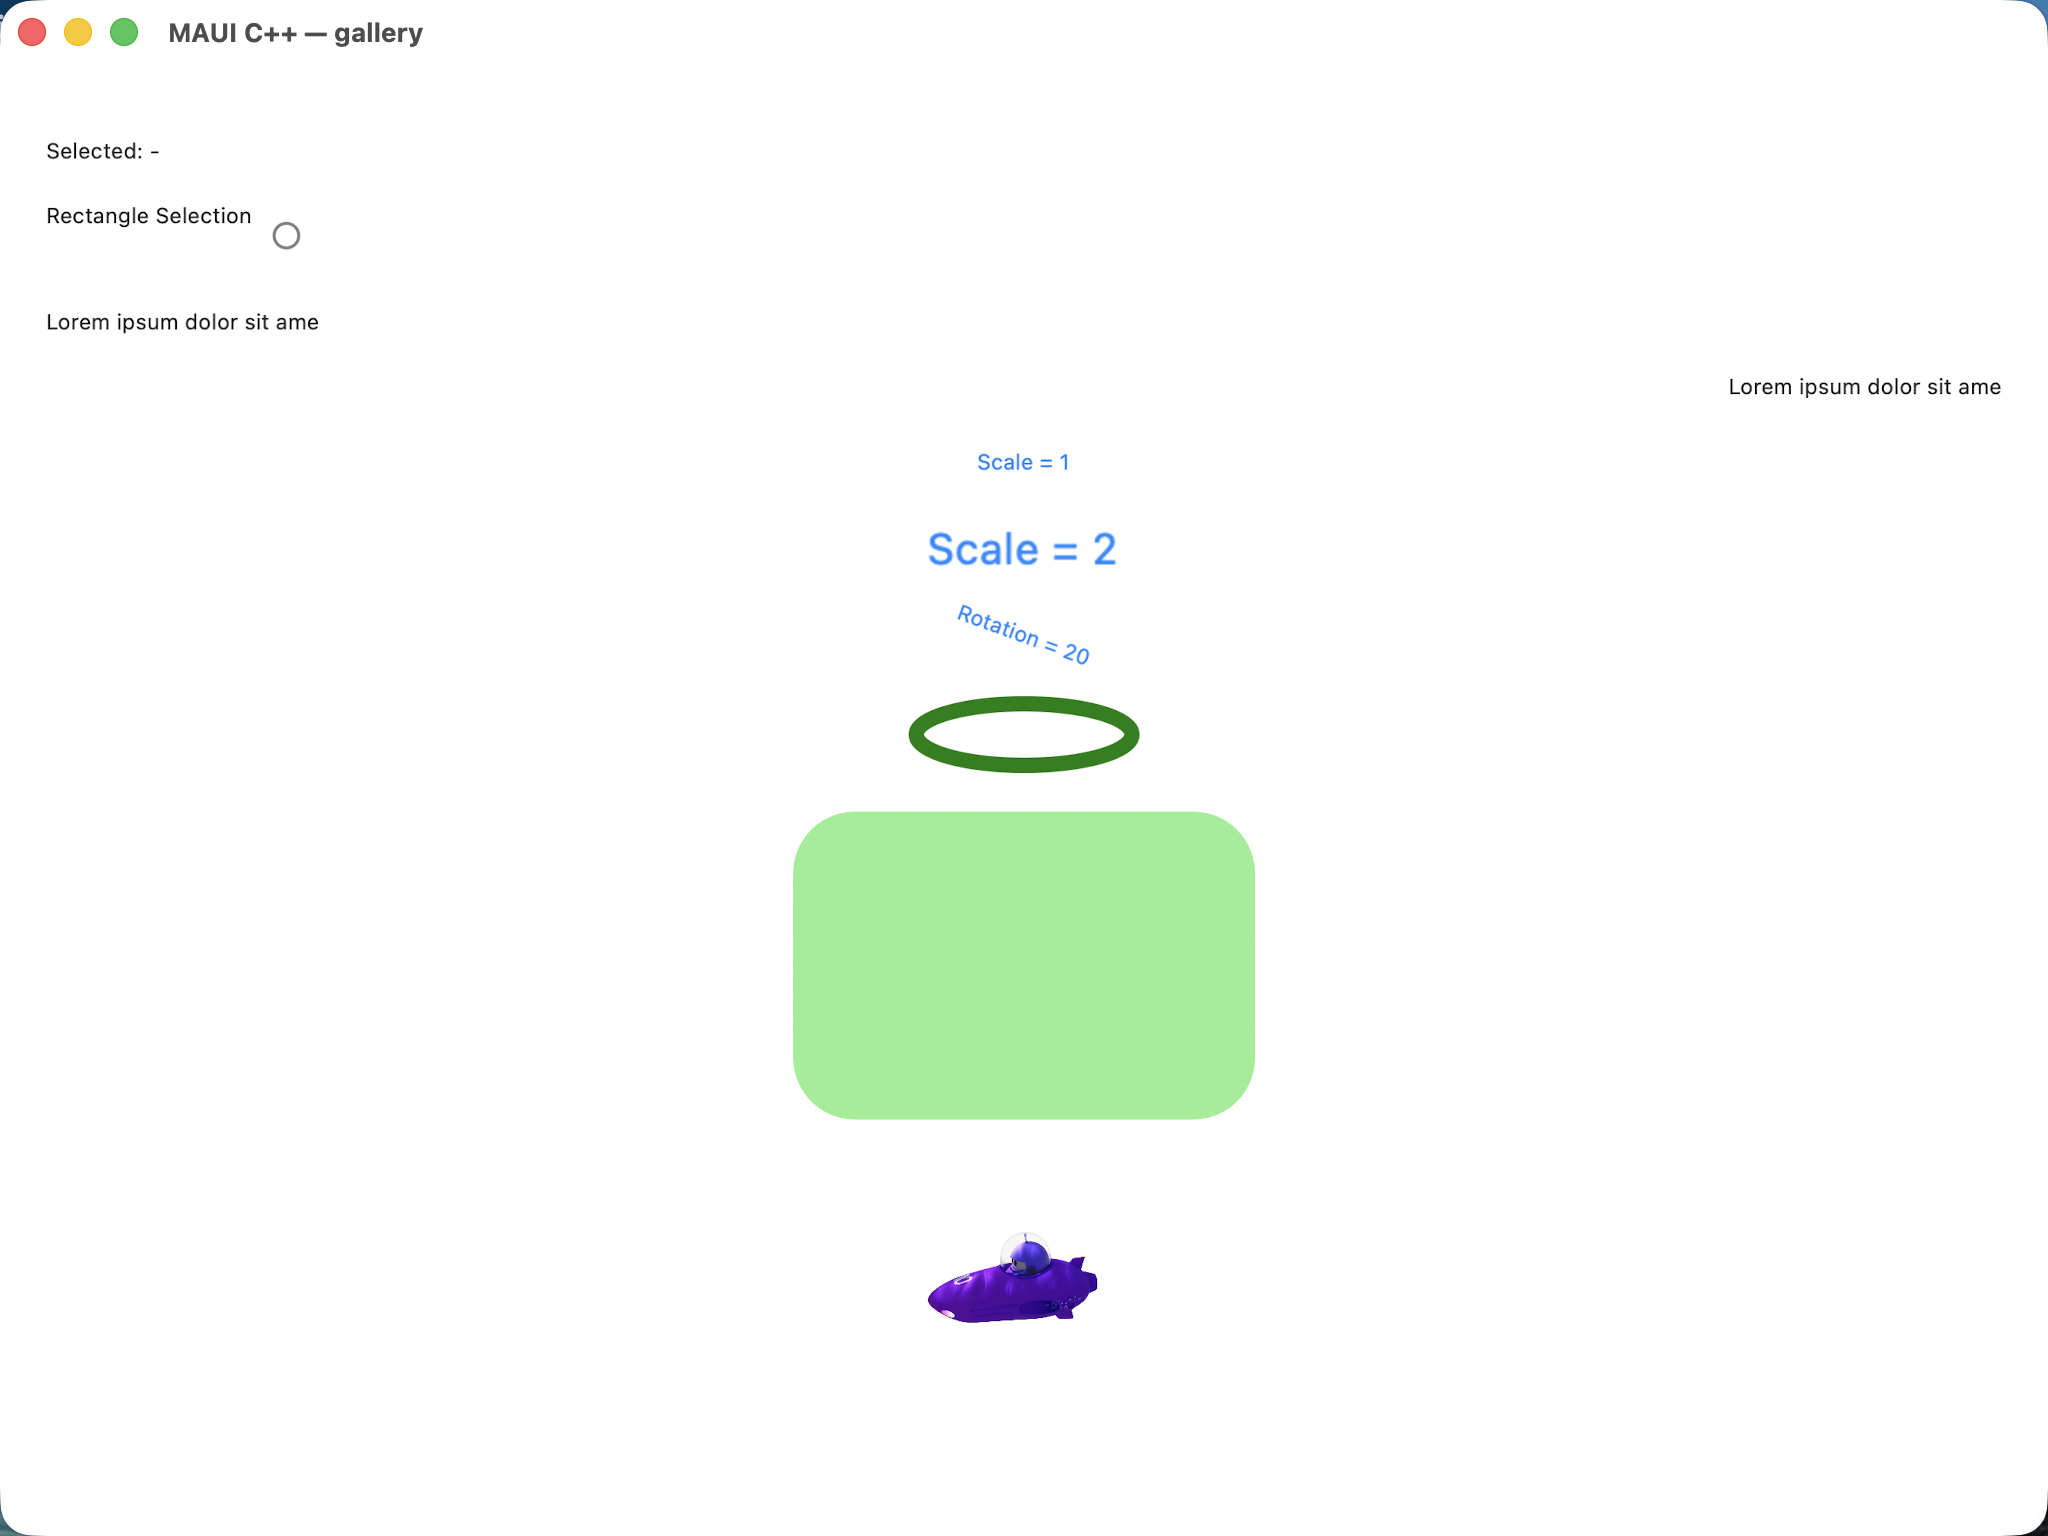
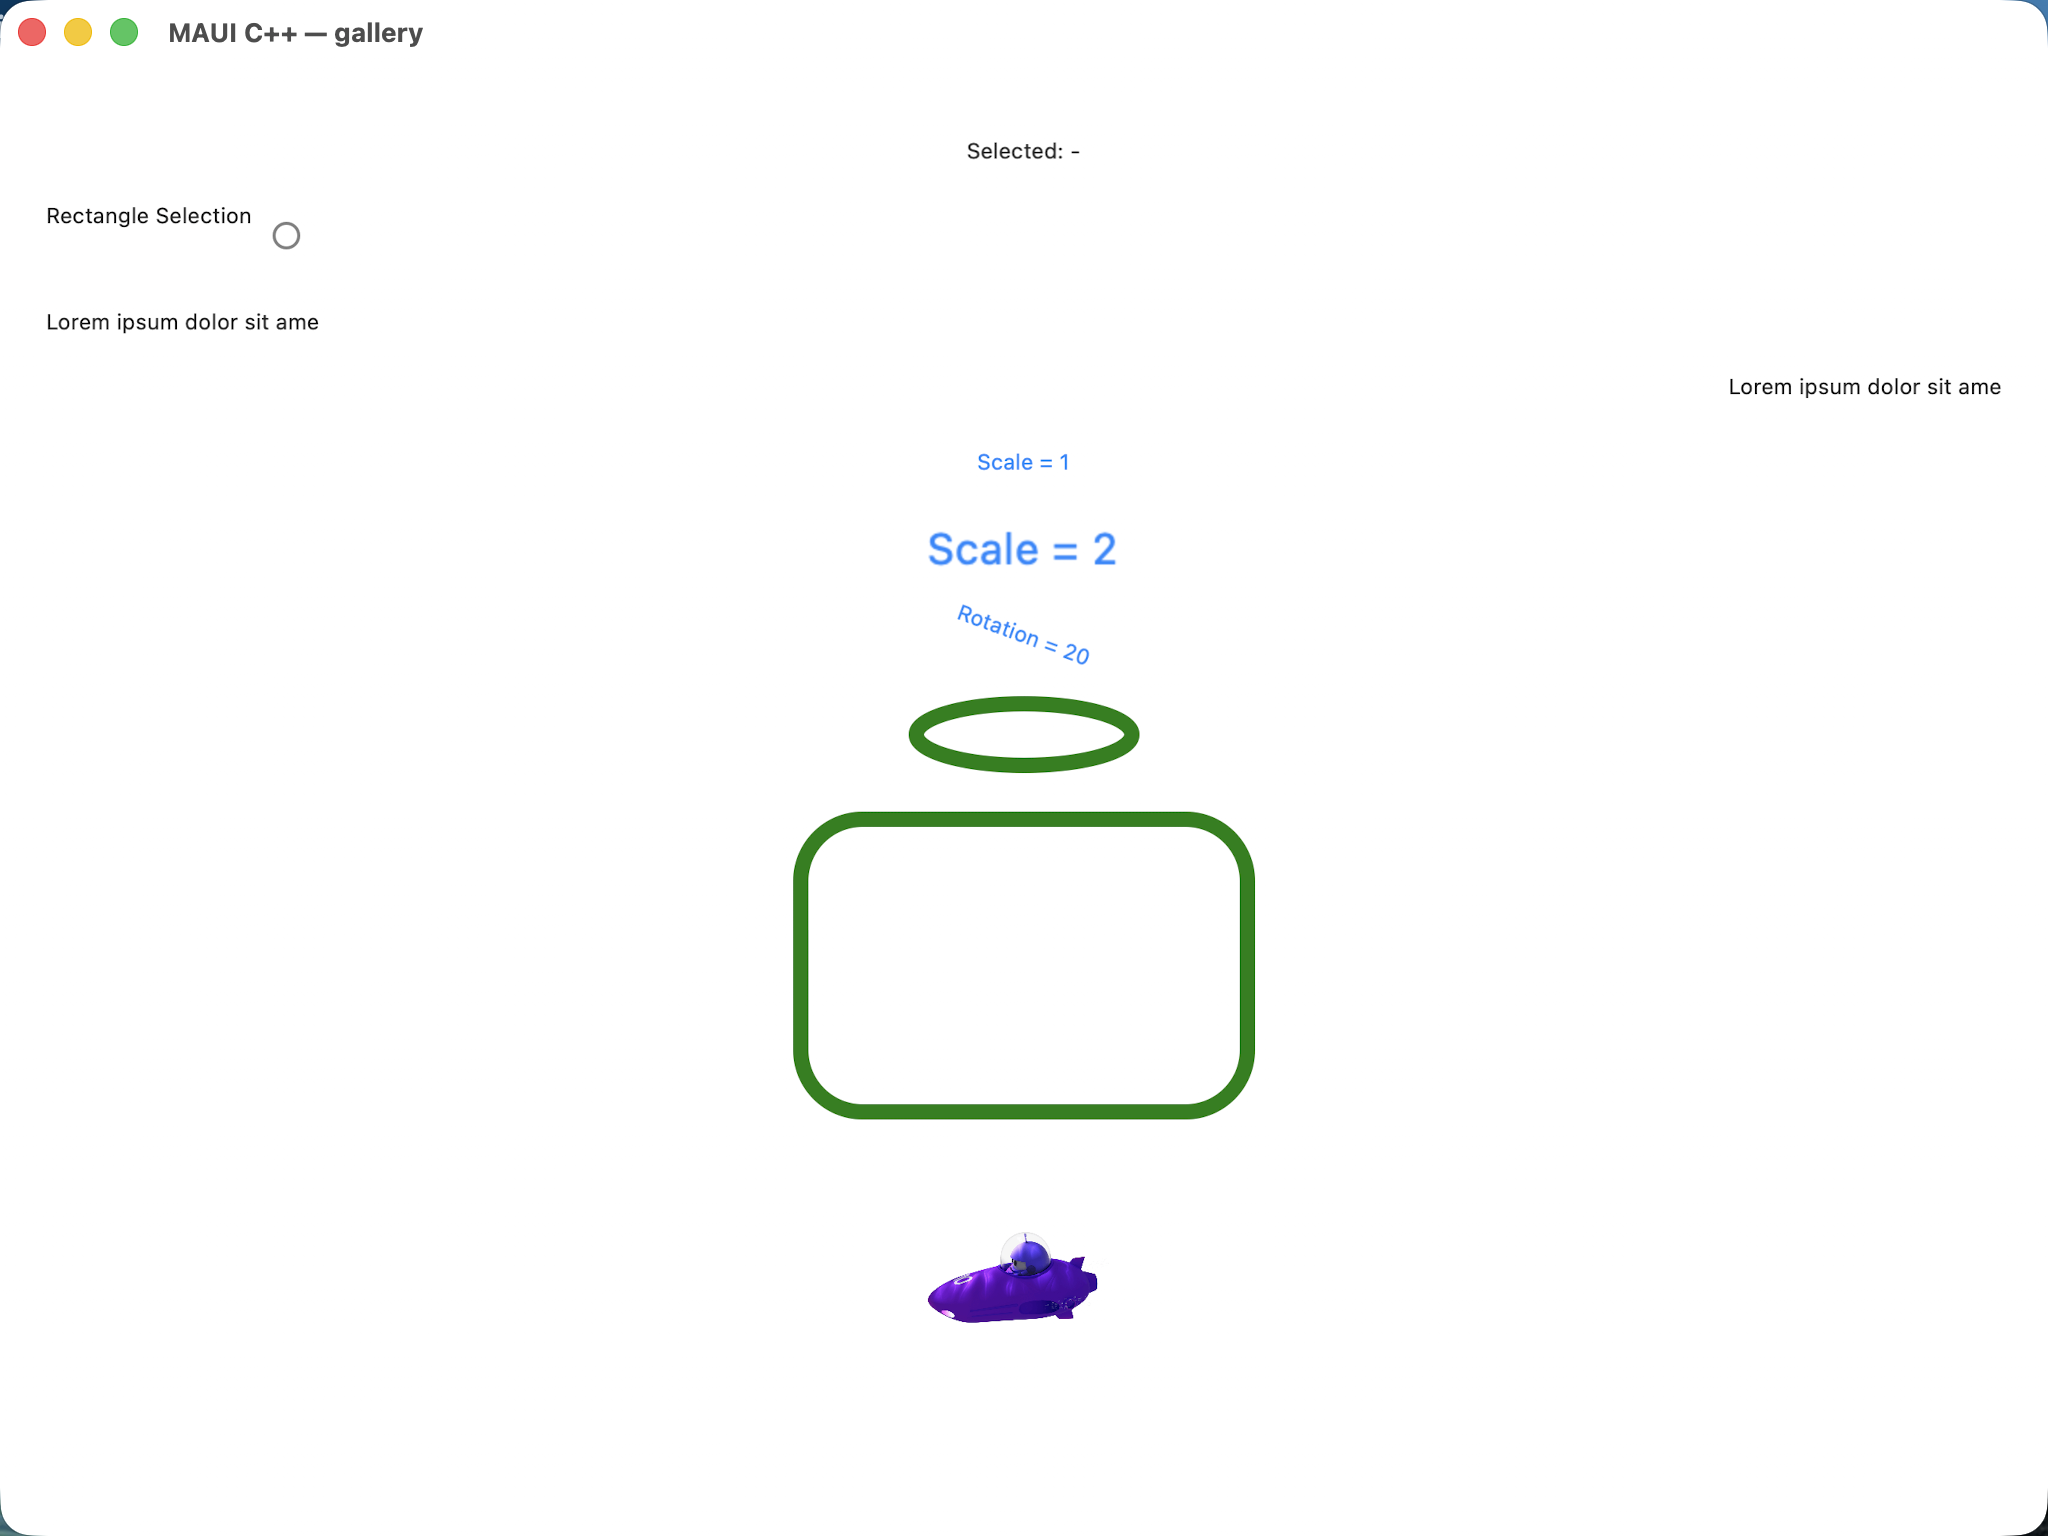
fix(gallery): hit_testing rounded-rect stand-in was a filled box_view
The XAML's RoundRectangle stand-in is an unfilled Rectangle (Stroke=Green,
StrokeThickness=10, no Fill), but the builder page used a box_view with
set_color() — which maps to Fill via Color?.AsPaint() — producing a solid
light-green fill instead of matching MAUI's hollow rounded stroke. Swap the
stand-in for shapes::rectangle with stroke/radius set (matching the ellipse
sibling's pattern), and center the "Selected: -" label per the XAML's
HorizontalOptions="Center". Closes the builder/XAML structural divergence,
so hit_testing is removed from known_diverging().

Changed region(s): [[0.375, 0.5, 0.625, 0.75], [0.4688, 0.0938, 0.5312, 0.125], [0.0312, 0.0938, 0.0625, 0.125]]

diff --git a/port/cpp/examples/gallery/pages/hit_testing_page.hpp b/port/cpp/examples/gallery/pages/hit_testing_page.hpp
@@ -46,7 +46,6 @@
 #include <string>
 #include <vector>
 
-#include "maui/controls/box_view.hpp"
 #include "maui/controls/button.hpp"
 #include "maui/controls/check_box.hpp"
 #include "maui/controls/content_page.hpp"
@@ -56,6 +55,7 @@
 #include "maui/controls/label.hpp"
 #include "maui/controls/scroll_view.hpp"
 #include "maui/controls/shapes/ellipse.hpp"
+#include "maui/controls/shapes/rectangle.hpp"
 #include "maui/controls/vertical_stack_layout.hpp"
 #include "maui/core/thickness.hpp"
 #include "maui/graphics/color.hpp"
@@ -77,6 +77,8 @@ namespace maui::samples
 
             // ---- the readout + the rectangle-selection toggle (the C# SelectionLabel + CheckBox) -------
             selection_label_.set_text("Selected: -");
+            selection_label_.set_horizontal_layout_alignment(
+                maui::core::layout_alignment::center); // XAML HorizontalOptions="Center"
             mode_label_.set_text("Rectangle Selection");
             mode_row_.add(mode_label_);
             mode_row_.add(rectangle_select_check_);
@@ -99,14 +101,19 @@ namespace maui::samples
             rotate_btn_.set_text("Rotation = 20");
             rotate_btn_.set_rotation(20);
 
-            // An ellipse + a rounded box_view (the RoundRectangle stand-in) + an image.
+            // An ellipse + a rounded (unfilled) Rectangle (the RoundRectangle stand-in) + an image.
             oval_.set_stroke(std::make_shared<maui::graphics::solid_paint>(maui::graphics::colors::green));
             oval_.set_stroke_thickness(10);
             oval_.set_width_request(150);
             oval_.set_height_request(50);
 
-            rounded_.set_color(maui::graphics::colors::light_green);
-            rounded_.set_corner_radius(maui::graphics::corner_radius(40));
+            // XAML: <Rectangle WidthRequest="300" HeightRequest="200" RadiusX="40" RadiusY="40"
+            //        StrokeThickness="10" Stroke="Green" /> — no Fill, so it must stay unfilled
+            // (the port previously used a filled box_view stand-in here; that diverged from MAUI).
+            rounded_.set_stroke(std::make_shared<maui::graphics::solid_paint>(maui::graphics::colors::green));
+            rounded_.set_stroke_thickness(10);
+            rounded_.set_radius_x(40);
+            rounded_.set_radius_y(40);
             rounded_.set_width_request(300);
             rounded_.set_height_request(200);
 
@@ -280,7 +287,7 @@ namespace maui::samples
         maui::controls::button scale2_btn_;
         maui::controls::button rotate_btn_;
         maui::controls::shapes::ellipse oval_;
-        maui::controls::box_view rounded_;
+        maui::controls::shapes::rectangle rounded_;
         maui::controls::image bot_image_;
 
         std::vector<target> targets_; // the hit-test candidates (the C# _allChildren)

diff --git a/port/cpp/tests/ui/gallery_structure_equivalence_tests.cpp b/port/cpp/tests/ui/gallery_structure_equivalence_tests.cpp
@@ -292,7 +292,6 @@ namespace
             // cluster D — twin structurally rewritten around unsupported features / loader gaps
             "carousel_page",
             "tabbed_flyout",
-            "hit_testing",
             "radio_button_content",
             "adaptive_collection",
             "custom_layout",
